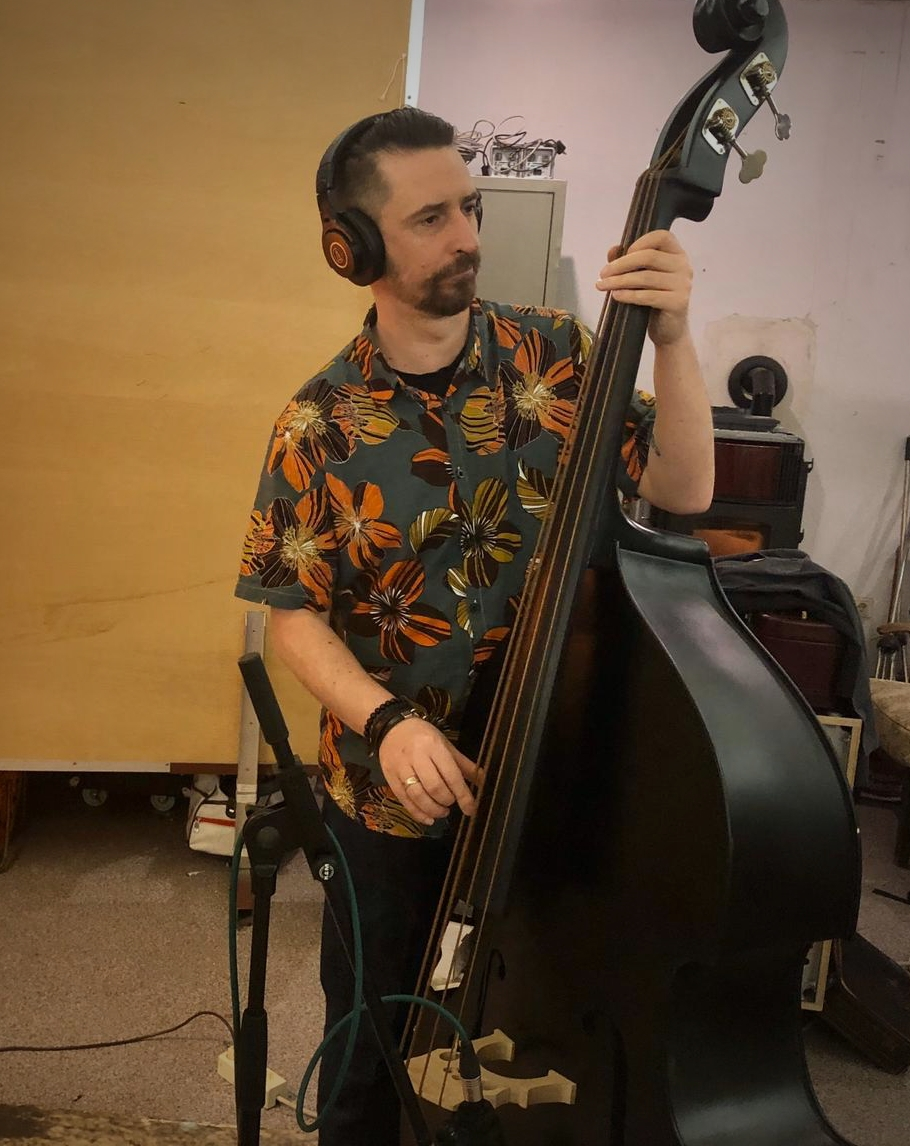
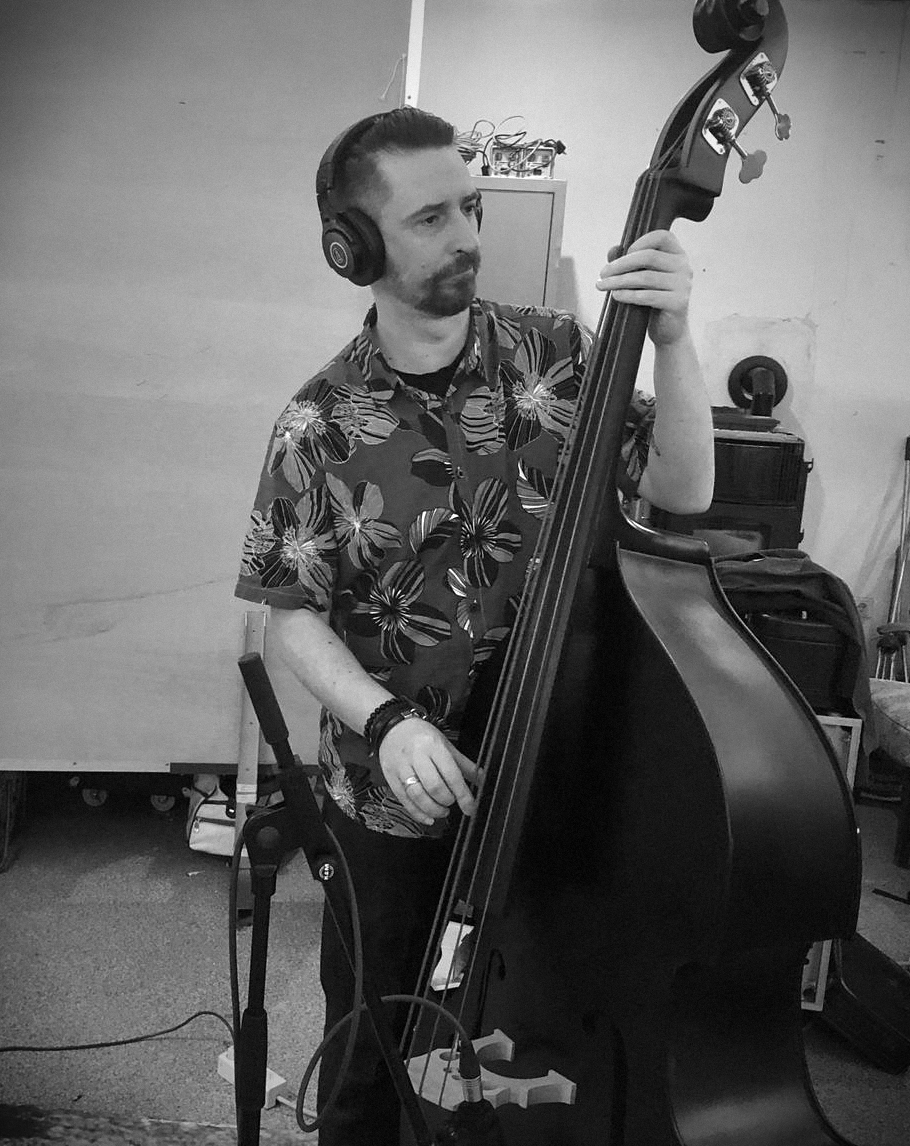
Use b/w photos only

diff --git a/source/javascripts/site.js b/source/javascripts/site.js
@@ -35,21 +35,7 @@ function sortEvents() {
   }
 }
 
-function toggleBw(event) {
-  const imgs = document.querySelectorAll(".profile-image img");
-  imgs.forEach((img) => {
-    if (img.src.search("-bw") >= 0) {
-      img.src = img.src.replace("-bw", "");
-    } else {
-      img.src = img.src.replace(/\/(\w+)\.jpg/, "/$1-bw.jpg");
-    }
-  });
-}
-
 docReady(() => {
   const navToggle = document.querySelector("#nav-toggle");
   navToggle.onclick = toggleNavbar;
-
-  const toggleBwButton = document.querySelector("#bw-toggle");
-  toggleBwButton.onclick = toggleBw;
 });
